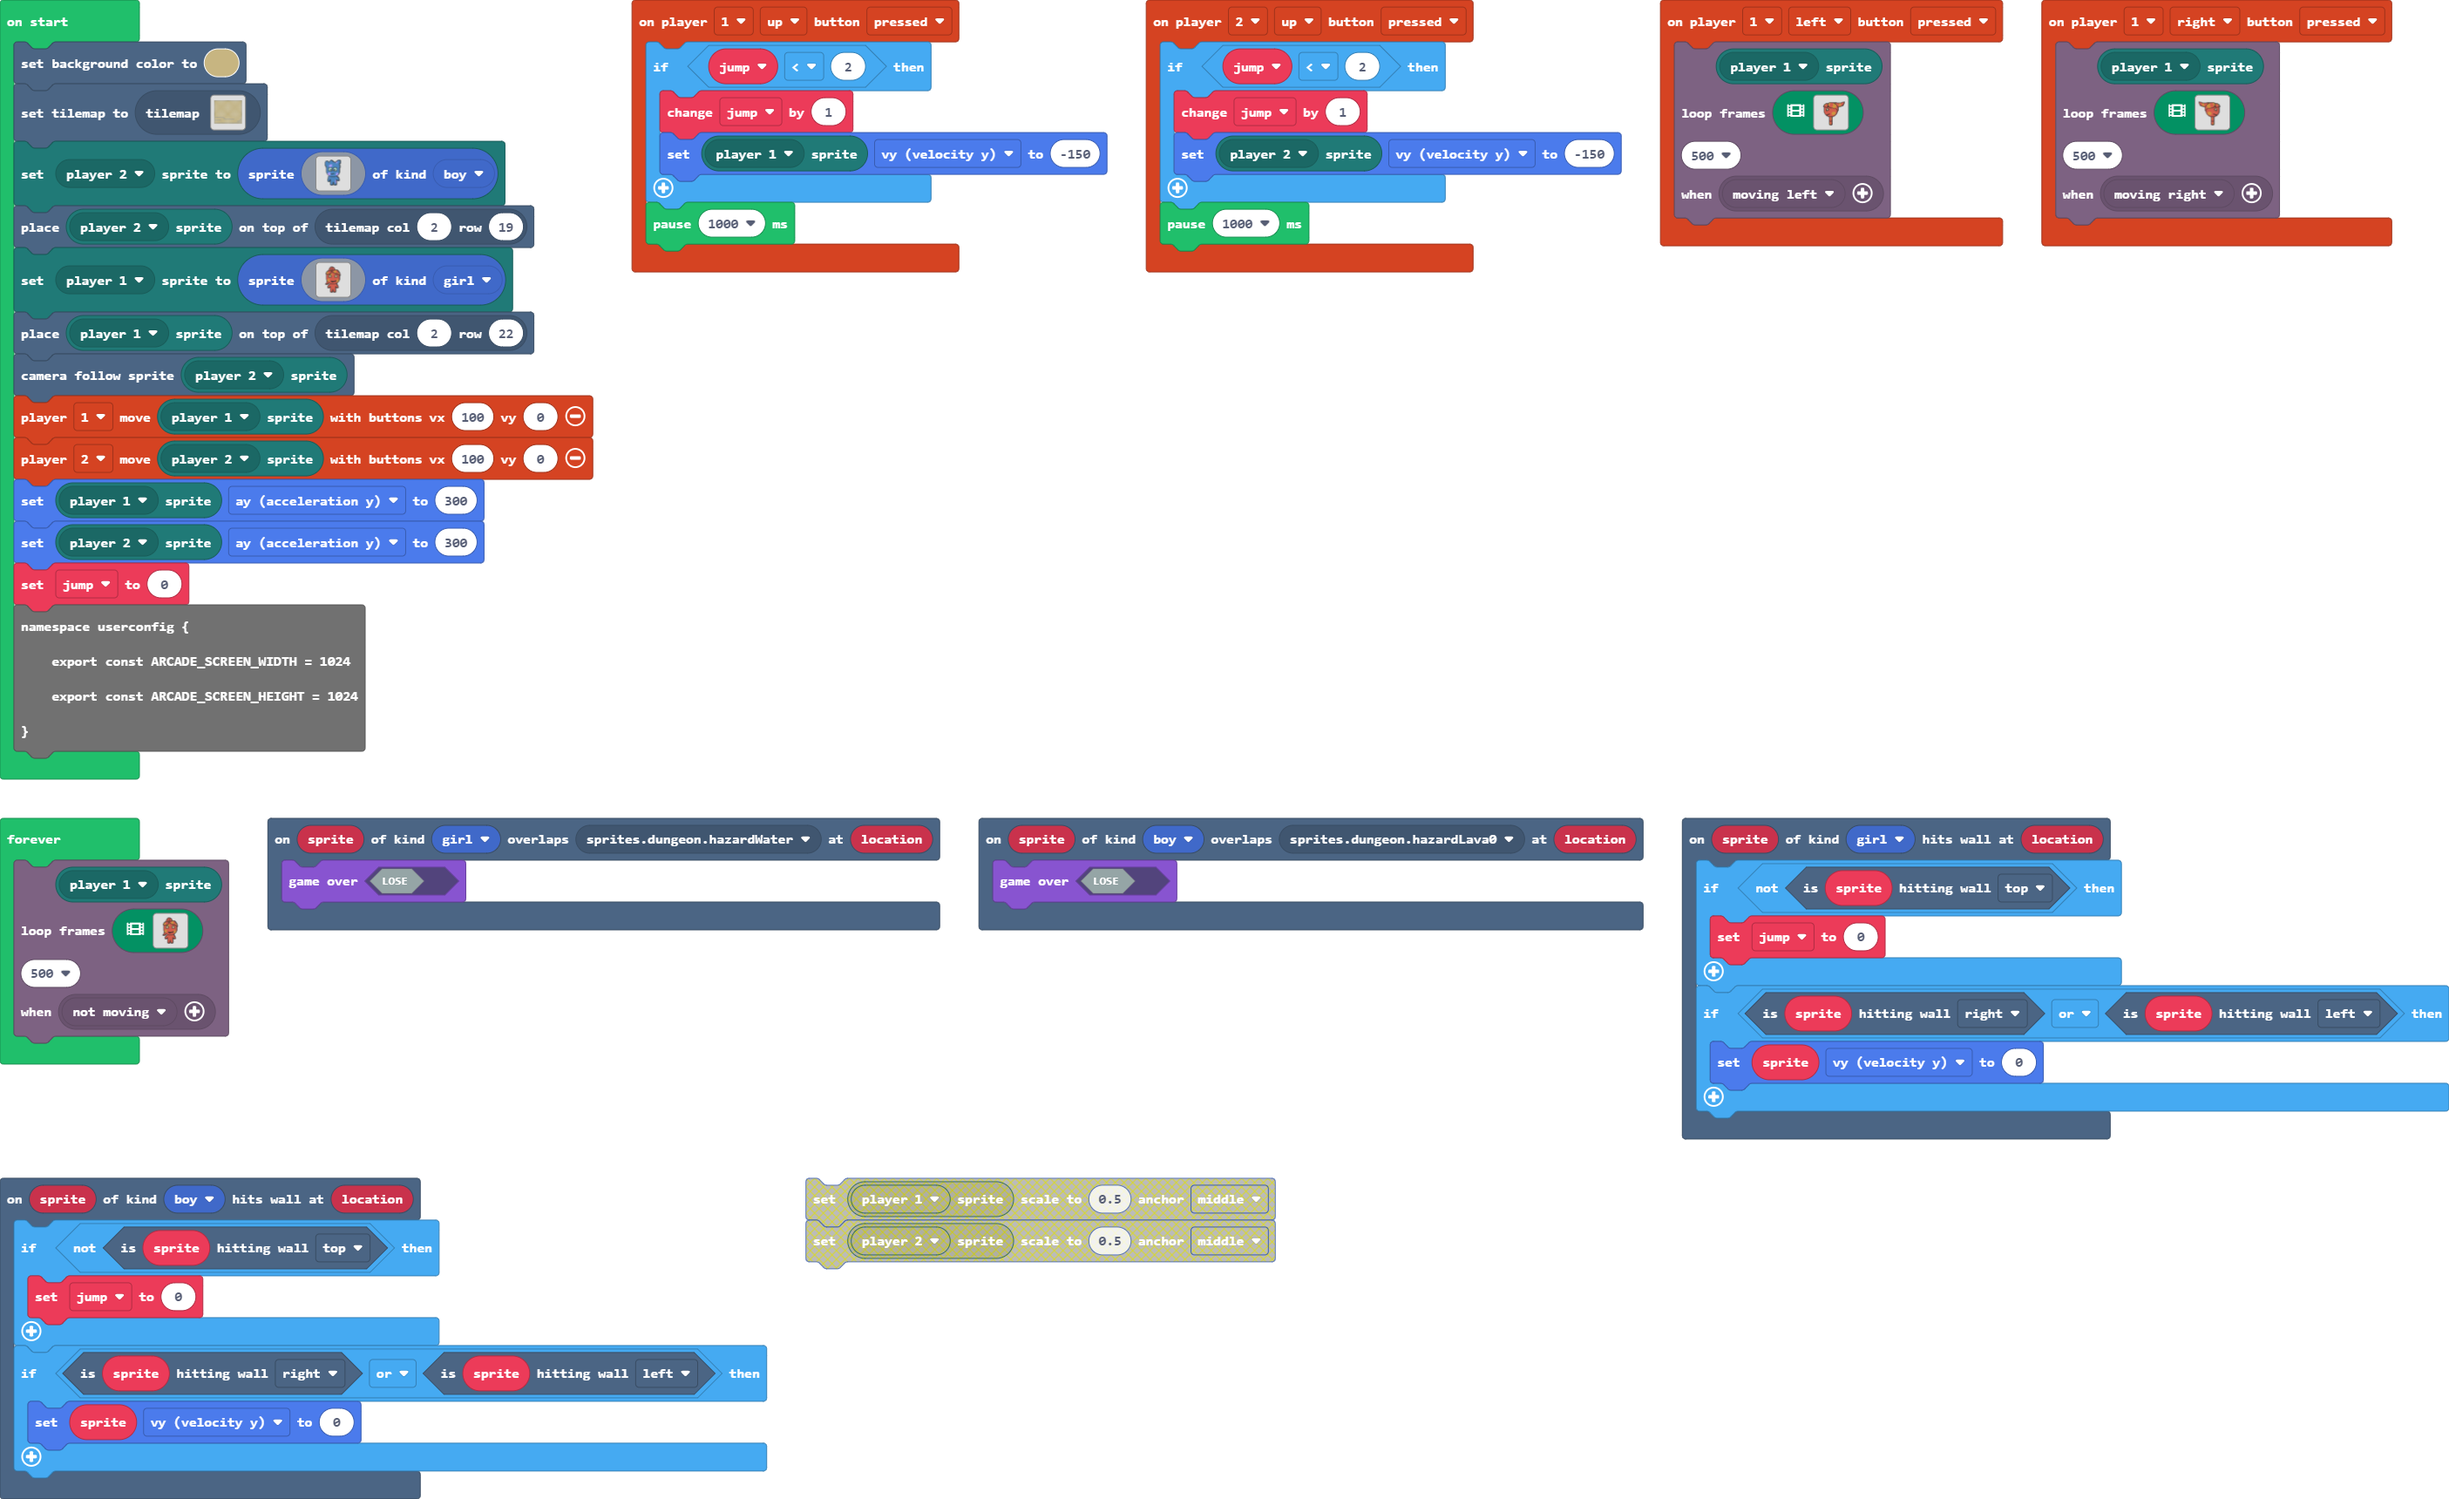
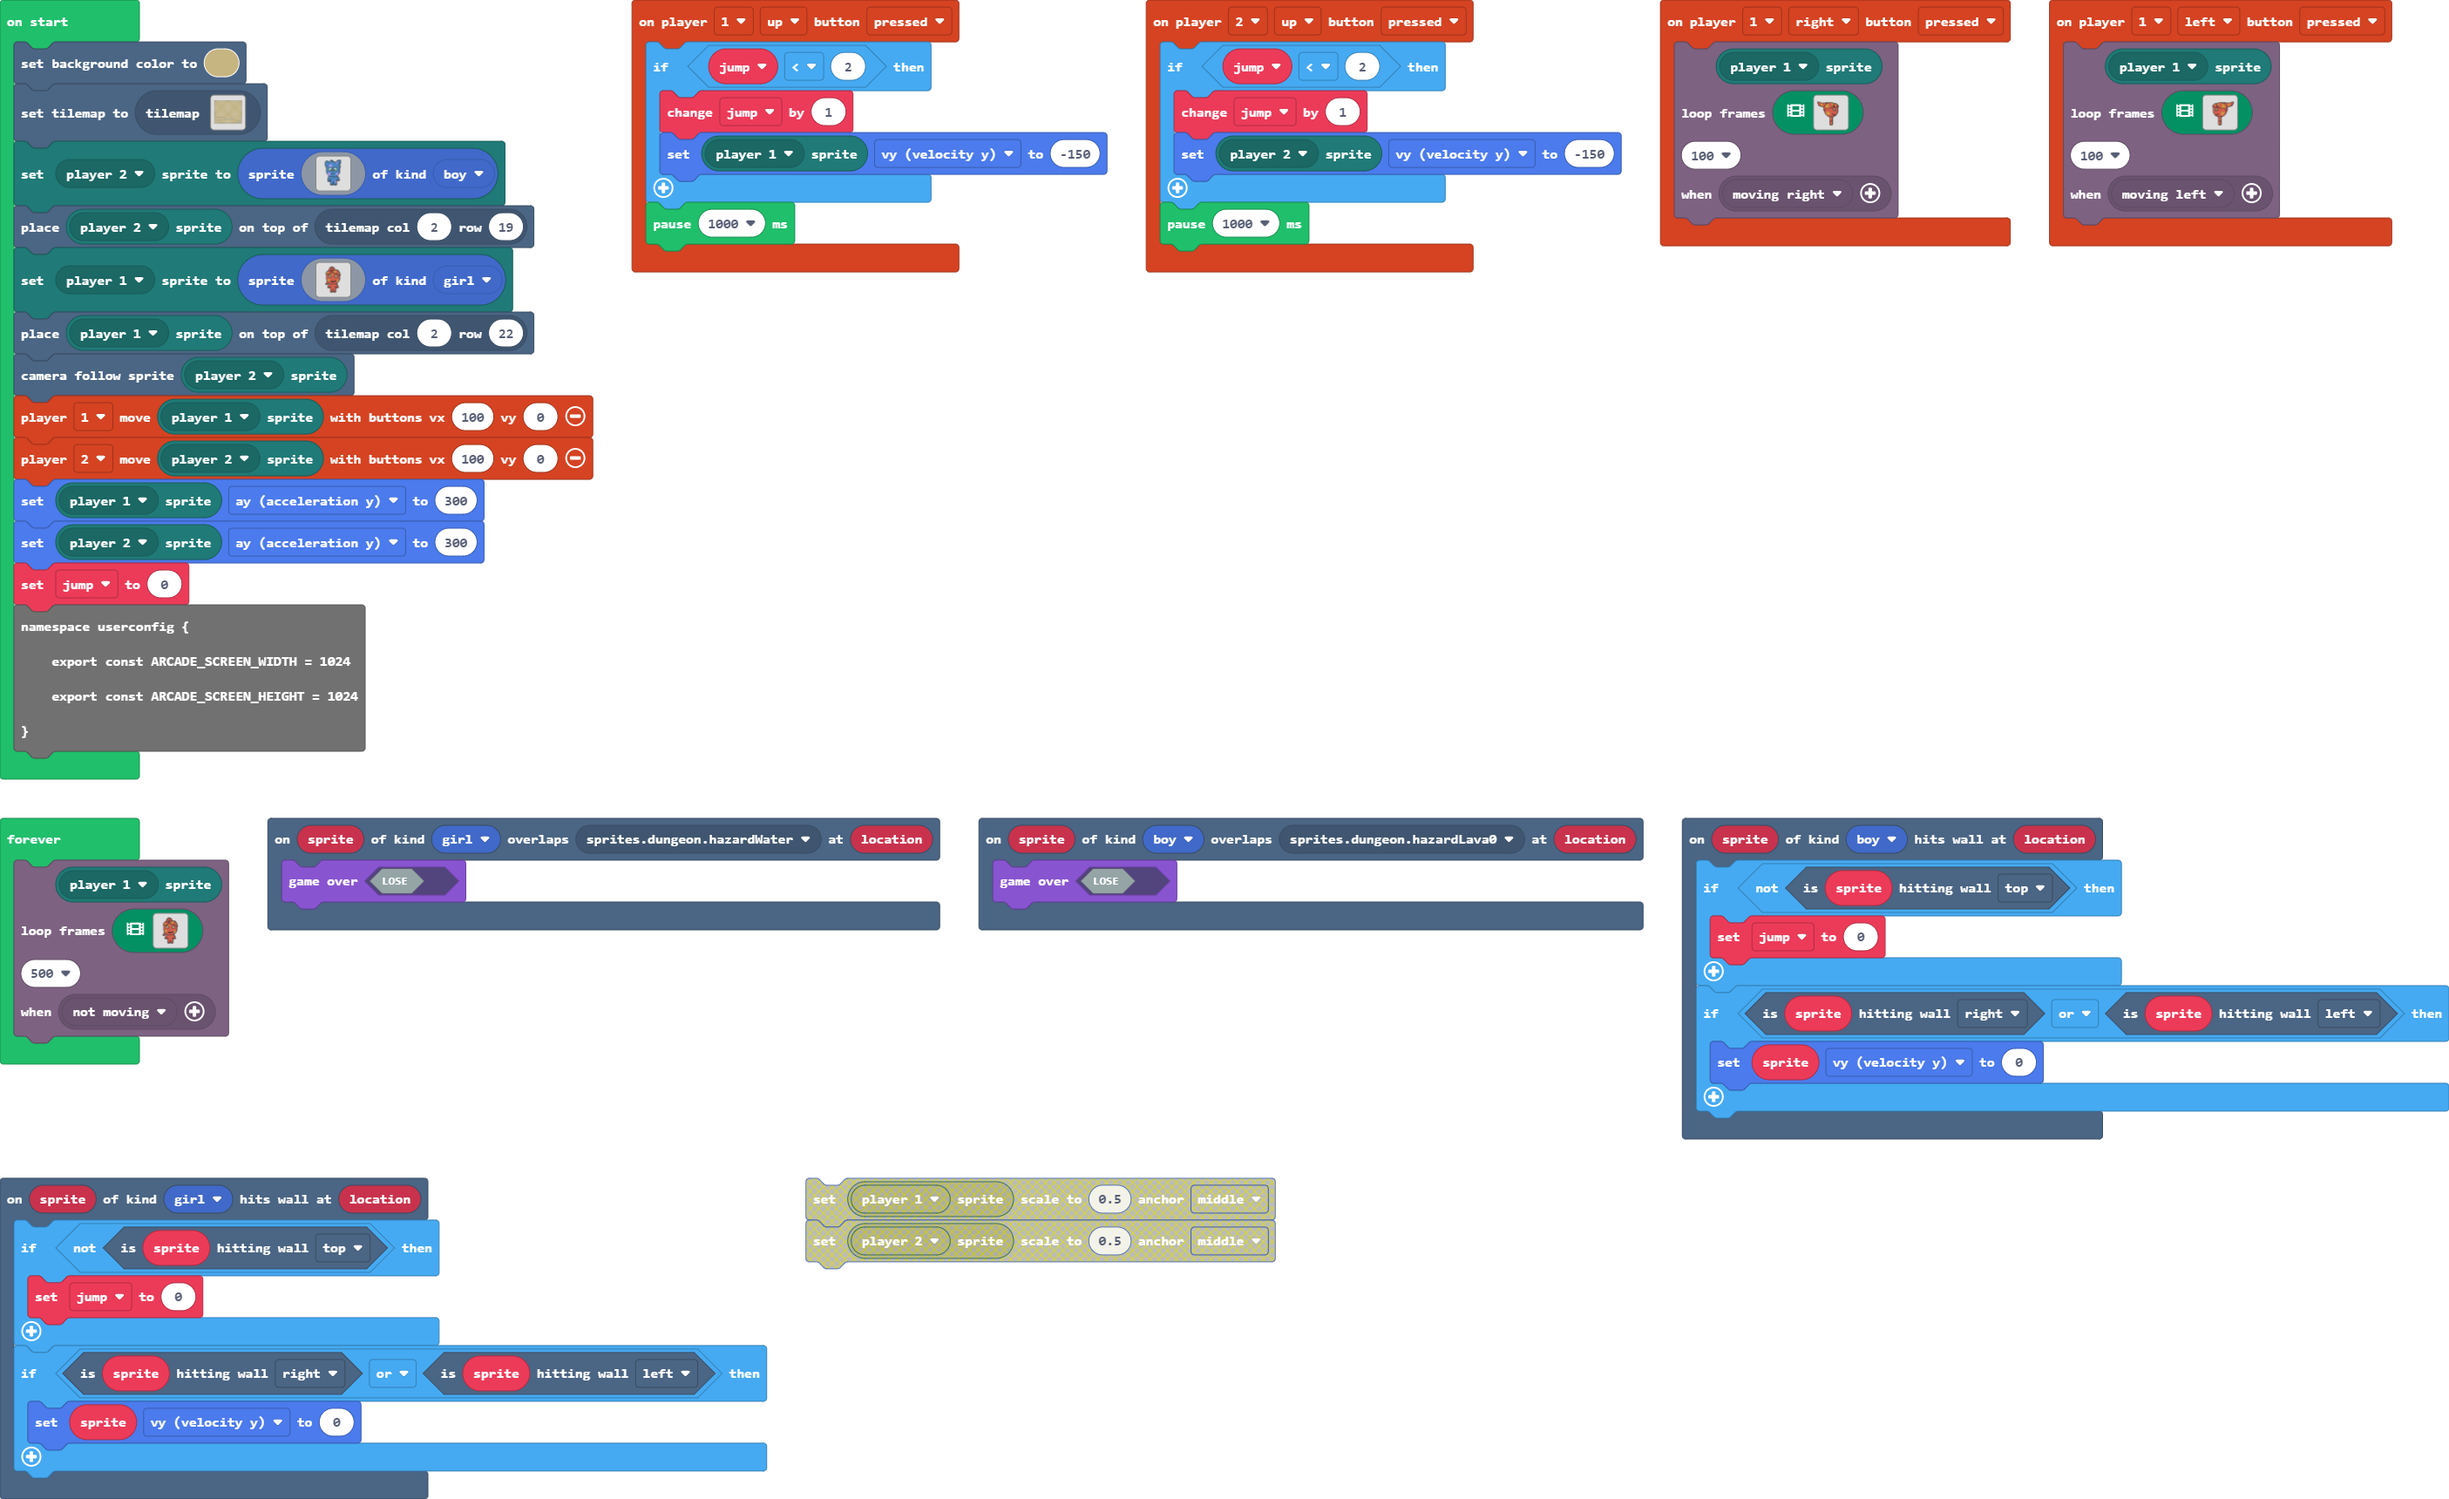
blocks working again

diff --git a/main.ts b/main.ts
@@ -98,8 +98,73 @@ controller.player1.onButtonEvent(ControllerButton.Right, ControllerButtonEvent.P
         ................................................................
         ................................................................
         ................................................................
+        `,img`
+        ................................................................
+        ................................................................
+        ................................................................
+        ................................................................
+        ................................................................
+        ................................................................
+        ................................................................
+        ................................................................
+        ................................................................
+        ...................ffffff.ffffffffff............................
+        .......fffffffffffff222ffff222222444ff..........................
+        ......ff24444222222222ff4422222224444fffffff....................
+        ....fff22444422222222ff444422222224444ff222ff...................
+        ...ff222244442222222ff4444422222224444f222244ff.................
+        ..ff222224444222222f444444422222222444f2222444ff................
+        .ff222222444422222f4444444422222222444f22222244f................
+        ff222222224444222ff444444442222222244ff22222222ff...............
+        .fffffffff4444222f2444444442222222224fff22222222f...............
+        .......fffffff22f2224444444422222222ffff2222222fff..............
+        ......ff222ff.fff222444444444222222ff2ff2222ffff................
+        ......f222ff...f22222444444442222fff222ffffff22f................
+        .....ff22ff....f222224444444ffffff2222222222222f................
+        ...ffffff......f222222ffffff2222222222ffff22222f................
+        ...............f2222ff222222222222222ffdddf2222f................
+        ...............f22ff2222222222222222ffddddf2222f................
+        ...............f22f22222222222222222fddddff2222f................
+        ...............f2f222222222222222222fffddff2222f................
+        ...............f2f22222222222222222222fffdf2222f................
+        ................ff2222222222222222222222fff2222f................
+        .................f22222222222222222222222222222f................
+        .................f22222444222222222222222222222f................
+        .................f22224444444222222222222222222f................
+        ..................f224444444442222222222222222f.................
+        ..................f224444444442222222222222222f.................
+        ...................f2444444444222222222222222f..................
+        ...................f22444444442222fff22222222f..................
+        ....................f22444444422222fffff2222f...................
+        .....................f2244444222222222ffffff....................
+        ......................f22222222222222222fff.....................
+        .......................ff222222222222222ff......................
+        .........................ff22222222222ff........................
+        ...........................fffffffffff..........................
+        .............................f22222f............................
+        .............................f22222f............................
+        .............................f42222f............................
+        .............................f44222f............................
+        .............................f44222f............................
+        .............................f42222f............................
+        .............................f22222f............................
+        .............................f22222f............................
+        ........................ffffff22222f............................
+        .......................ff2222ff222ff............................
+        .......................f22222f2fff2f............................
+        .......................f22222f22222f............................
+        .......................f22222f22222f............................
+        .......................ff2222f22222f............................
+        ........................ffffff22244f............................
+        .............................f22244f............................
+        .............................f22244f............................
+        .............................ff224ff............................
+        ..............................fffff.............................
+        ................................................................
+        ................................................................
+        ................................................................
         `],
-    500,
+    100,
     characterAnimations.rule(Predicate.MovingRight)
     )
 })
@@ -179,8 +244,73 @@ controller.player1.onButtonEvent(ControllerButton.Left, ControllerButtonEvent.Pr
         ................................................................
         ................................................................
         ................................................................
+        `,img`
+        ................................................................
+        ................................................................
+        ................................................................
+        ................................................................
+        ................................................................
+        ................................................................
+        ................................................................
+        ................................................................
+        ................................................................
+        ............................ffffffffff.ffffff...................
+        ..........................ff444222222ffff222fffffffffffff.......
+        ....................fffffff4444222222244ff22222222244442ff......
+        ...................ff222ff444422222224444ff22222222444422fff....
+        .................ff442222f4444222222244444ff222222244442222ff...
+        ................ff4442222f444222222224444444f222222444422222ff..
+        ................f44222222f4442222222244444444f222224444222222ff.
+        ...............ff22222222ff442222222244444444ff222444422222222ff
+        ...............f22222222fff4222222222444444442f2224444fffffffff.
+        ..............fff2222222ffff2222222244444444222f22fffffff.......
+        ................ffff2222ff2ff222222444444444222fff.ff222ff......
+        ................f22ffffff222fff22224444444422222f...ff222f......
+        ................f2222222222222ffffff444444422222f....ff22ff.....
+        ................f22222ffff2222222222ffffff222222f......ffffff...
+        ................f2222fdddff222222222222222ff2222f...............
+        ................f2222fddddff2222222222222222ff22f...............
+        ................f2222ffddddf22222222222222222f22f...............
+        ................f2222ffddfff222222222222222222f2f...............
+        ................f2222fdfff22222222222222222222f2f...............
+        ................f2222fff2222222222222222222222ff................
+        ................f22222222222222222222222222222f.................
+        ................f22222222222222222222244422222f.................
+        ................f22222222222222222244444442222f.................
+        .................f222222222222222244444444422f..................
+        .................f222222222222222244444444422f..................
+        ..................f2222222222222224444444442f...................
+        ..................f22222222fff22224444444422f...................
+        ...................f2222fffff22222444444422f....................
+        ....................ffffff2222222224444422f.....................
+        .....................fff22222222222222222f......................
+        ......................ff222222222222222ff.......................
+        ........................ff22222222222ff.........................
+        ..........................fffffffffff...........................
+        ............................f22222f.............................
+        ............................f22222f.............................
+        ............................f22224f.............................
+        ............................f22244f.............................
+        ............................f22244f.............................
+        ............................f22224f.............................
+        ............................f22222f.............................
+        ............................f22222f.............................
+        ............................f22222ffffff........................
+        ............................ff222ff2222ff.......................
+        ............................f2fff2f22222f.......................
+        ............................f22222f22222f.......................
+        ............................f22222f22222f.......................
+        ............................f22222f2222ff.......................
+        ............................f44222ffffff........................
+        ............................f44222f.............................
+        ............................f44222f.............................
+        ............................ff422ff.............................
+        .............................fffff..............................
+        ................................................................
+        ................................................................
+        ................................................................
         `],
-    500,
+    100,
     characterAnimations.rule(Predicate.MovingLeft)
     )
 })
